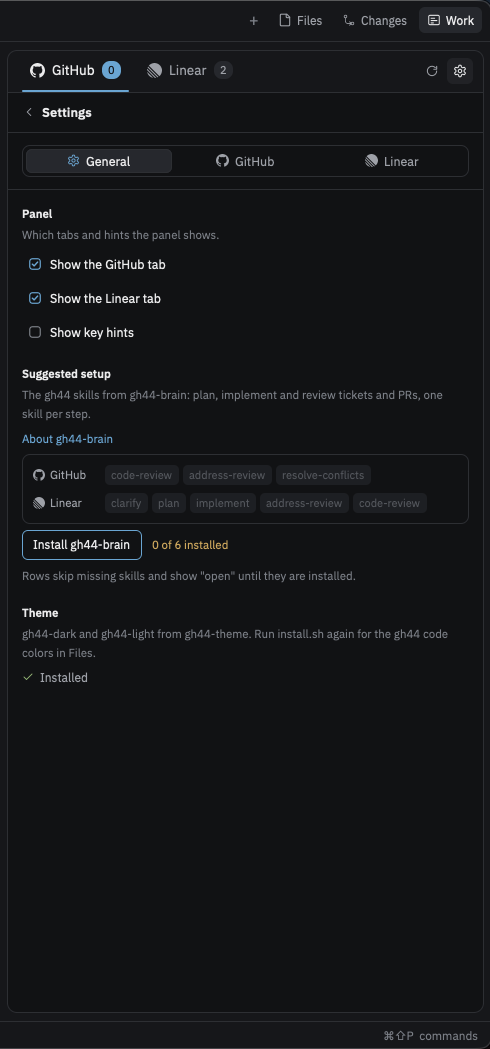
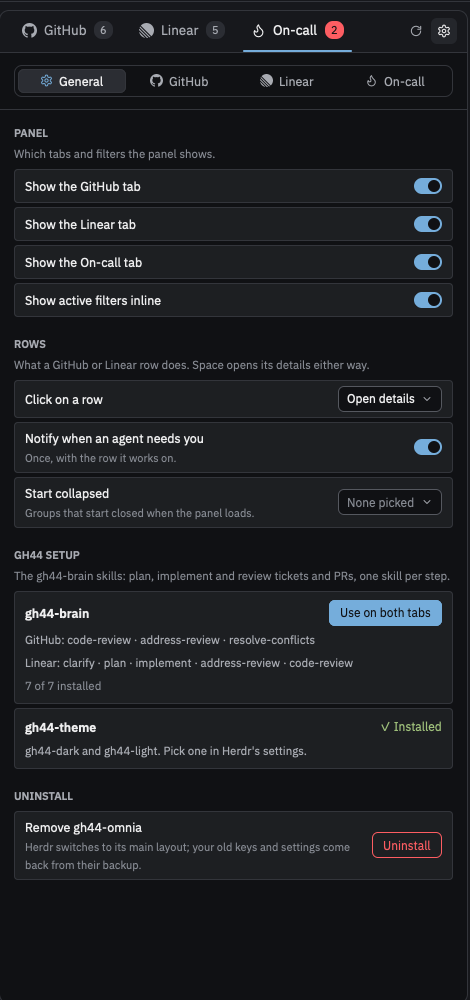
docs: README screenshots from demo mode

diff --git a/README.md b/README.md
@@ -68,27 +68,32 @@ To remove it:
 
 ## Screenshots
 
+Made-up data from demo mode (`herdr-app do hub.demo-on`, then `./reload.sh`; `hub.demo-off` to leave).
+
 <table>
   <tr>
-    <th>Omnia panel</th>
+    <th>GitHub</th>
+    <th>Linear</th>
     <th>On-call</th>
-    <th>Filters</th>
-    <th>Clean up</th>
   </tr>
   <tr>
-    <td align="center"><img src="docs/work-panel.png" alt="Omnia panel with a PR row and its skill menu" width="220"></td>
-    <td align="center"><img src="docs/oncall.png" alt="On-call tab: listening to 7 projects, all clear" width="220"></td>
-    <td align="center"><img src="docs/filters.png" alt="GitHub tab filters: author, label, team, reviews, assignee, CI and sort" width="220"></td>
-    <td align="center"><img src="docs/merged-worktrees.png" alt="Note offering to clean up merged worktrees" width="220"></td>
+    <td align="center"><img src="docs/omnia-github.png" alt="GitHub tab: PRs grouped by whose move it is, a merged worktree note and an agent working on a PR" width="240"></td>
+    <td align="center"><img src="docs/omnia-linear.png" alt="Linear tab: tickets by status, each with its next skill or its running agent" width="240"></td>
+    <td align="center"><img src="docs/omnia-oncall.png" alt="On-call tab: Sentry issues the AI reported, held and ignored" width="240"></td>
   </tr>
+</table>
+
+<table>
   <tr>
     <th>General settings</th>
     <th>GitHub settings</th>
     <th>Linear settings</th>
+    <th>On-call settings</th>
   </tr>
   <tr>
-    <td align="center"><img src="docs/settings-general.png" alt="General settings: tabs, gh44 theme and skills" width="220"></td>
-    <td align="center"><img src="docs/settings-github.png" alt="GitHub settings: skills and the default for each row" width="220"></td>
-    <td align="center"><img src="docs/settings-linear.png" alt="Linear settings: API key, skills, defaults and where runs go" width="220"></td>
+    <td align="center"><img src="docs/settings-general.png" alt="General settings: tabs, rows, gh44 setup and uninstall" width="180"></td>
+    <td align="center"><img src="docs/settings-github.png" alt="GitHub settings: skills and what each kind of PR suggests" width="180"></td>
+    <td align="center"><img src="docs/settings-linear.png" alt="Linear settings: API key, skills and what each kind of ticket suggests" width="180"></td>
+    <td align="center"><img src="docs/settings-oncall.png" alt="On-call settings: Sentry token, org, projects, repo profile and domain" width="180"></td>
   </tr>
 </table>
